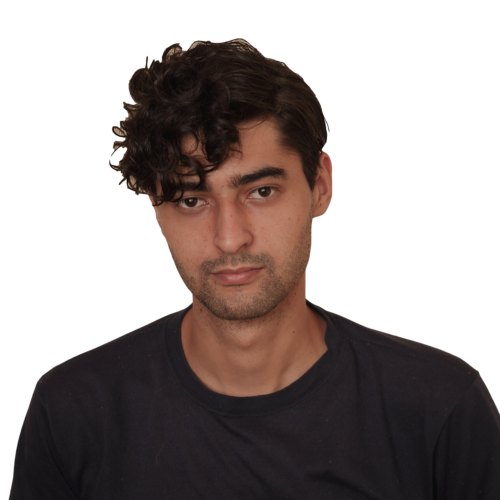
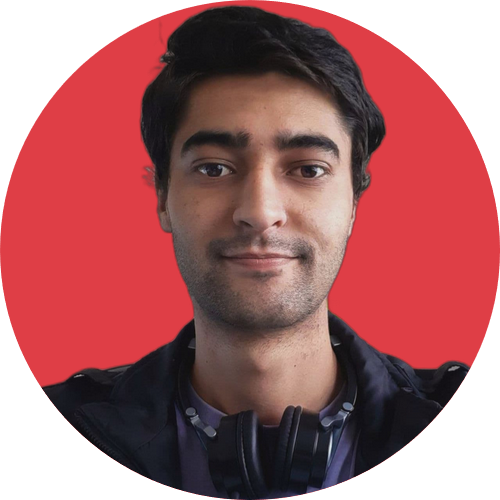
Atualiza estilo da Home

diff --git a/src/components/Feed/index.js b/src/components/Feed/index.js
@@ -3,18 +3,31 @@ import Link from 'next/link'
 
 const Container = Styled.section`
   margin: 30px auto;
-  width: max(50vw, 350px);
+  width: 920px;
   display: flex;
   flex-wrap: wrap;
-  justify-content: center;
-  gap: 50px;
+  justify-content: left;
+  gap: 10px;
+
+  @media (max-width: 919px) {
+    width: 610px;
+  }
+
+  @media (max-width: 615px) {
+    width: 300px;
+  }
 `
 
 const PostStyle = Styled.div`
-  width: max(45%, 350px);
+  padding: 16px;
+  border-radius: 16px;
+  border: 1px solid #33333330;
+  width: 300px;
   opacity: 0;
+  cursor: pointer;
 
   animation: deslizarCima 0.5s ease-out;
+  transition: 0.2s;
   animation-delay: ${(props) => props.delay};
   animation-fill-mode: forwards;
 
@@ -24,18 +37,22 @@ const PostStyle = Styled.div`
     text-align: right;
     font-size: 0.7rem;
   }
+
+  &:hover {
+    border: 4px solid #DF3E47;
+  }
 `
 
 const Feed = ({posts}) => {
   return(
     <Container>
       {posts.map( ({dados, conteudo}) => (
-        <PostStyle key={dados.link}>
           <Link href={`/post/${dados.link}`}>
-            <a> <h1>{dados.titulo}</h1> </a>
+            <PostStyle key={dados.link}>
+              <a> <h1>{dados.titulo}</h1> </a>
+              <p>{dados.resumo}</p>
+            </PostStyle>
           </Link>
-          <p>{dados.resumo}</p>
-        </PostStyle>
       ))}
     </Container>
   )

diff --git a/src/components/Cabecalho/index.js b/src/components/Cabecalho/index.js
@@ -12,21 +12,17 @@ const Container = Styled.header`
   padding: 30px;
 `
 
-const ContainerImagem = Styled.div`
-  border: none;
-  border-radius: 100%;
-  height: ${(props) => props.tamanho};
-  width: ${(props) => props.tamanho};
-  overflow: hidden;
-  backdrop-filter: invert(5%); 
+const Titulo = Styled.h1`
+  color: ${(props) => props.theme.destaque};
 `
 
-const Titulo = Styled.h1`
-  text-align: center;
-  display: inline-block;
-  color: ${(props) => props.theme.background};
-  background-color: ${(props) => props.theme.destaque};
-  padding: 5px;
+const DivCentralizada = Styled.div`
+  padding-right: 8px;
+  display: flex;
+  align-items: center;
+  gap: 8px;
+  border: solid 5px #DF3E46;
+  background-color: white;
 `
 
 const BtnDarkMode = Styled.button`
@@ -59,8 +55,11 @@ const Cabecalho = ({atualizarTema, setCookie}) => {
 
   return(
     <Container>
-      <Image src="/profile-pic(1).png" width={200} height={200} />
-      <Titulo>Blog Lucas Felizardo</Titulo>
+      <Image src="/perfil.png" width={200} height={200} />
+      <DivCentralizada>
+        <Image src="/logo.svg" width={50} height={50}/>
+        <Titulo>Lucas Felizardo</Titulo>
+      </DivCentralizada>
       <BtnDarkMode onClick={mudarTema}>Alterar Tema</BtnDarkMode>
     </Container>
   )

diff --git a/src/styles/globalStyle.js b/src/styles/globalStyle.js
@@ -17,30 +17,16 @@ const GlobalStyle = createGlobalStyle`
   h2,
   h3 {
     color: ${(props) => props.theme.destaque};
-    margin-bottom: 10px;
-    text-transform: capitalize;
-  }
-
-  h1 {
-    display: block;
-    text-align: left;
   }
 
   p {
     margin-top: 10px;
+    font-size: 1.06rem;
     text-indent: 1.5rem;
   }
 
   a { 
     text-decoration: none;
-
-    h1 { 
-      transition: 0.5s ease-in-out;
-    }
-    h1:hover {
-      background-color: ${(props) => props.theme.destaque};
-      color: ${(props) => props.theme.background};
-    }
   }
 
   img {

diff --git a/pages/_app.js b/pages/_app.js
@@ -1,8 +1,14 @@
 import { CookiesProvider } from 'react-cookie'
+import Head from 'next/head'
 
 export default function App({ Component, pageProps }) {
   return (
     <CookiesProvider>
+      <Head>
+        <link rel="shortcut icon" href="/logo.svg" />
+        <meta name="viewport" content="initial-scale=1.0, width=device-width" />
+        <link href="https://fonts.googleapis.com/css2?family=Roboto:wght@300;400;700&display=swap" rel="stylesheet" />
+      </Head>
       <Component {...pageProps} />
     </CookiesProvider>
   )

diff --git a/src/components/Titulo/index.js b/src/components/Titulo/index.js
@@ -4,8 +4,6 @@ const Titulo = (props) => {
   return (
     <Head>
       <title>{props.children}</title>
-      <meta name="viewport" content="initial-scale=1.0, width=device-width" />
-      <link href="https://fonts.googleapis.com/css2?family=Roboto:wght@300;400;700&display=swap" rel="stylesheet" />
     </Head>
   )
 }

diff --git a/_posts/primeiro-post copy 2.md b/_posts/primeiro-post copy 2.md
@@ -1,0 +1,19 @@
+---
+titulo: '1ª aula imersão React'
+data: '25/01/2021'
+resumo: 'Primeira aula da imersão React Next.js oferecida pela Alura. Nesta aula foi mostrado como criar componentes utilizando React e Styled Components.'
+---
+Na primeira aula da imersão com os professores: Mario Solto, Juliana Amoasei e Paulo Silveira foi mostrado como criar componentes utilizando **React** e **Styled Components**, tudo isso na prática com a criação de um Quiz.
+
+## Tecnologias
+Antes de tudo, precisamos explicar as principais tecnologias apresentadas e criar um contexto que indique onde e o porquê delas serem utilizadas.
+
+### React
+O React é uma biblioteca JavaScript que fois criada pelo grupo de desenvolvedores do Facebook para auxiliar na criação de interfaces. Ao construirmos páginas onde há muita coisa acontecendo ao mesmo tempo, como o chat e as notificações no Facebook, é bom separarmos cada "bloco" da interface, estes blocos são chamados de componentes. A base do React é a criação de componentes, sendo assim, quando a página precisa ser alterada, somente o componente específico é atualizado, não precisando de um reload completo da página.
+
+### Styled Component
+Assim como o React, o styled component é uma biblioteca javascript para criação de componentes. O grande poder dassa biblioteca é juntar o CSS e o javascript, o que chamamos de CSS in JS, e que vem se tornando um padrão no desenvolvimento front-end.
+
+### Next.js
+Por fim, temos o next.js que é um framework baseado no React (“a abstração da abstração"). Foi desenvolvido pela Vercel para criação de páginas no lado do servidor, deixando que o usuário receba basicamente um arquivo HTML simples, tornando a página muito mais responsiva. Como a Vercel é uma empresa de hospedagem, é extremamente fácil fazer o deploy da aplicação por lá, custando um total de 0 reais.
+

diff --git a/_posts/primeiro-post copy.md b/_posts/primeiro-post copy.md
@@ -1,0 +1,19 @@
+---
+titulo: '1ª aula imersão React'
+data: '25/01/2021'
+resumo: 'Primeira aula da imersão React Next.js oferecida pela Alura. Nesta aula foi mostrado como criar componentes utilizando React e Styled Components.'
+---
+Na primeira aula da imersão com os professores: Mario Solto, Juliana Amoasei e Paulo Silveira foi mostrado como criar componentes utilizando **React** e **Styled Components**, tudo isso na prática com a criação de um Quiz.
+
+## Tecnologias
+Antes de tudo, precisamos explicar as principais tecnologias apresentadas e criar um contexto que indique onde e o porquê delas serem utilizadas.
+
+### React
+O React é uma biblioteca JavaScript que fois criada pelo grupo de desenvolvedores do Facebook para auxiliar na criação de interfaces. Ao construirmos páginas onde há muita coisa acontecendo ao mesmo tempo, como o chat e as notificações no Facebook, é bom separarmos cada "bloco" da interface, estes blocos são chamados de componentes. A base do React é a criação de componentes, sendo assim, quando a página precisa ser alterada, somente o componente específico é atualizado, não precisando de um reload completo da página.
+
+### Styled Component
+Assim como o React, o styled component é uma biblioteca javascript para criação de componentes. O grande poder dassa biblioteca é juntar o CSS e o javascript, o que chamamos de CSS in JS, e que vem se tornando um padrão no desenvolvimento front-end.
+
+### Next.js
+Por fim, temos o next.js que é um framework baseado no React (“a abstração da abstração"). Foi desenvolvido pela Vercel para criação de páginas no lado do servidor, deixando que o usuário receba basicamente um arquivo HTML simples, tornando a página muito mais responsiva. Como a Vercel é uma empresa de hospedagem, é extremamente fácil fazer o deploy da aplicação por lá, custando um total de 0 reais.
+
